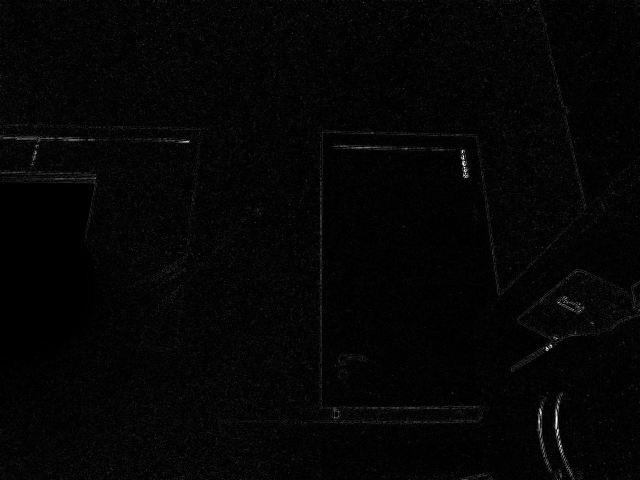
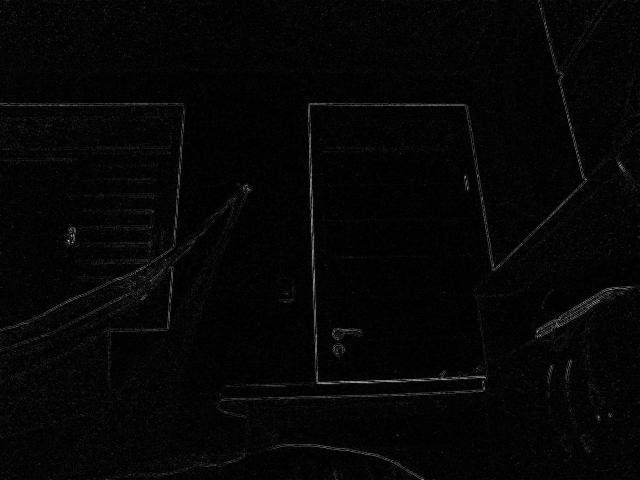
ajeitei o filtro

diff --git a/pdi/6.Filtro-Espacial/lapgauss.cpp b/pdi/6.Filtro-Espacial/lapgauss.cpp
@@ -84,8 +84,6 @@ int main(int argvc, char** argv){
   namedWindow("filtroespacial",1);
 
   mask = Mat(3, 3, CV_32F, media);
-  //scaleAdd(mask, 1/9.0, Mat::zeros(3,3,CV_32F), mask1);
-  //swap(mask, mask1);
   absolut=1; // calcs abs of the image
 
   menu();
@@ -100,13 +98,13 @@ int main(int argvc, char** argv){
       frameFiltered=abs(frameFiltered);
     }
     if(lg){
-      //mask = Mat(9,9,CV_32F,lapgauss1);
       filter2D(frame32f,frameFiltered,frame32f.depth(),mask,Point(2,2),0);
       if(addLG2) frameFiltered = frameFiltered + frame32f;
     }
     if(lp){
       mask = Mat(3, 3, CV_32F, gauss);
       scaleAdd(mask, 1/16.0, Mat::zeros(3,3,CV_32F), mask1);
+      mask = mask1;
       filter2D(frame32f, frameFiltered, frame32f.depth(), mask, Point(1,1), 0);
       mask = Mat(3, 3, CV_32F, laplacian);
       filter2D(frameFiltered, frameFiltered, frame32f.depth(), mask, Point(1,1), 0);
